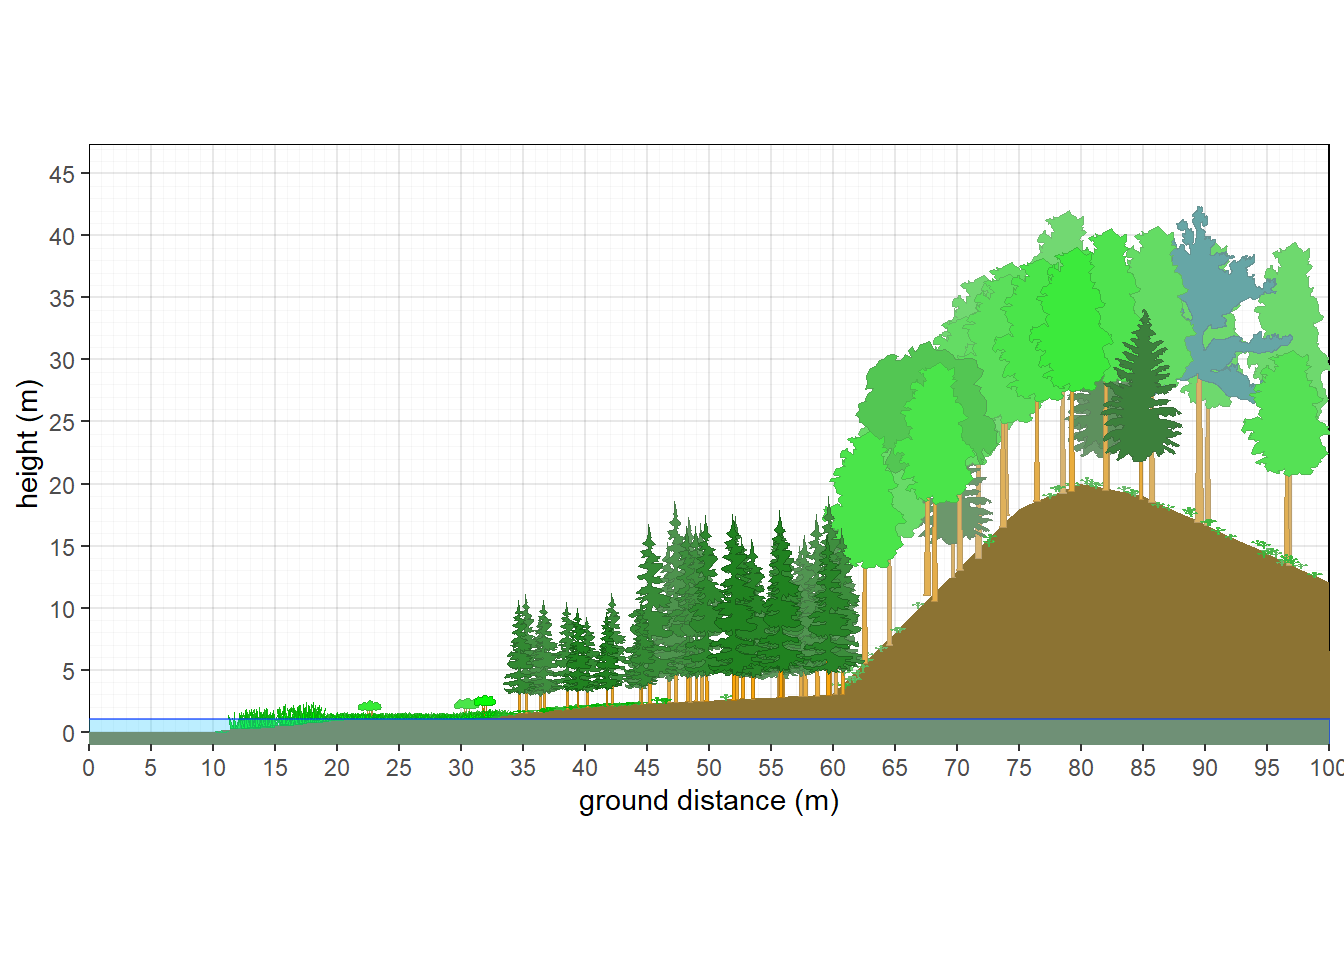
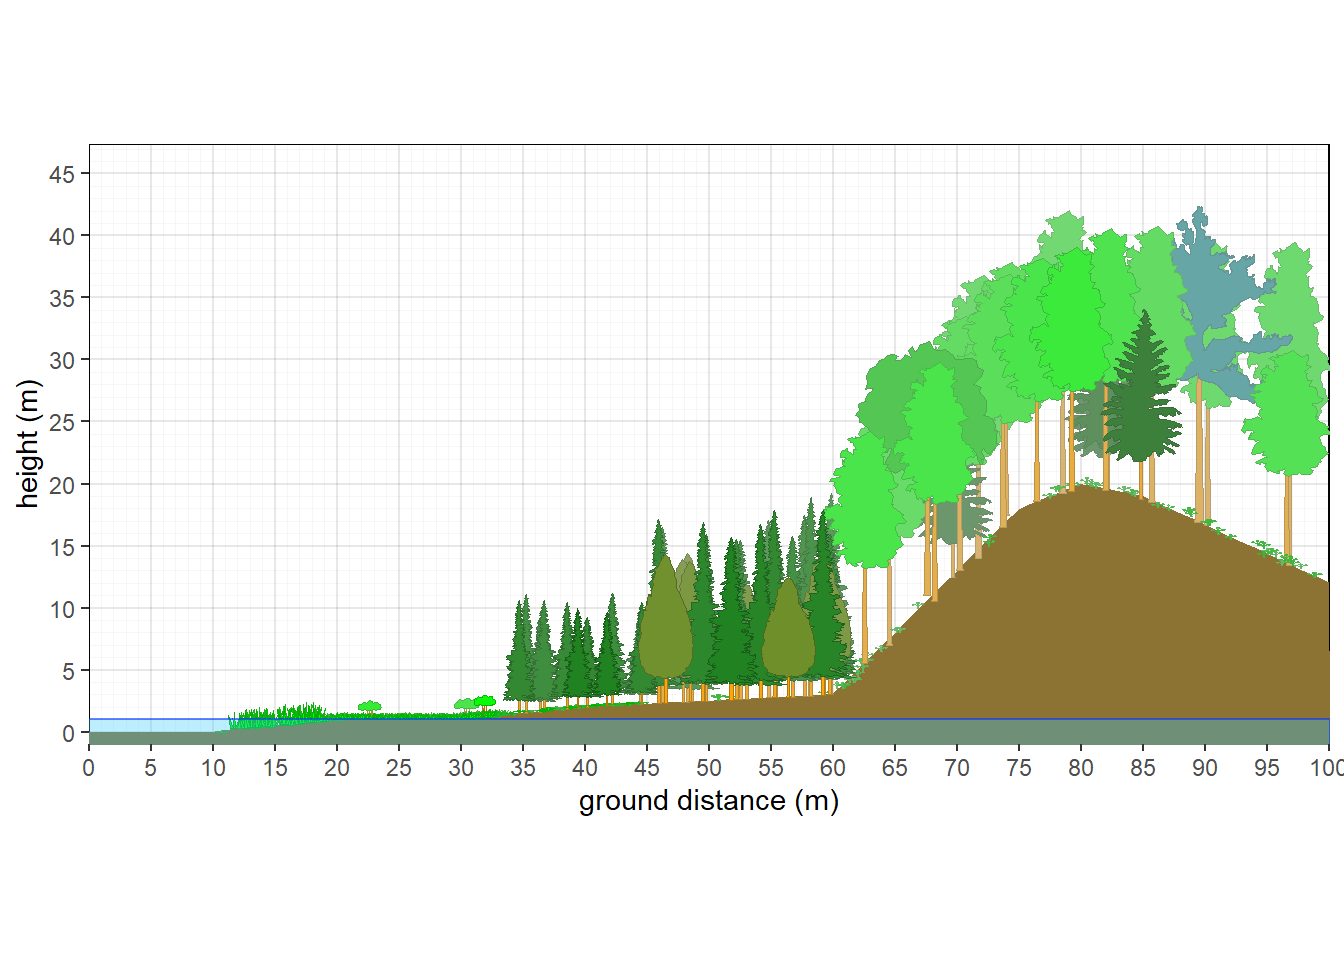
add whitecedar

Changed region(s): [[0.375, 0.5312, 0.6562, 0.75]]

diff --git a/docs/vegetation-plant-profile-diagrams.html b/docs/vegetation-plant-profile-diagrams.html
@@ -479,49 +479,51 @@ Figure 10.10: Aspen with fir subcanopy - fire
 <span id="cb12-10"><a href="vegetation-plant-profile-diagrams.html#cb12-10" tabindex="-1"></a>) <span class="sc">|&gt;</span> <span class="fu">pre.fill.veg</span>()</span>
 <span id="cb12-11"><a href="vegetation-plant-profile-diagrams.html#cb12-11" tabindex="-1"></a>               </span>
 <span id="cb12-12"><a href="vegetation-plant-profile-diagrams.html#cb12-12" tabindex="-1"></a>boreal<span class="ot">&lt;-</span><span class="fu">data.frame</span>(</span>
-<span id="cb12-13"><a href="vegetation-plant-profile-diagrams.html#cb12-13" tabindex="-1"></a>  <span class="at">habit =</span><span class="fu">c</span> (<span class="st">&#39;T.NE&#39;</span>,<span class="st">&#39;H.F&#39;</span>),</span>
-<span id="cb12-14"><a href="vegetation-plant-profile-diagrams.html#cb12-14" tabindex="-1"></a>  <span class="at">crown.max =</span> <span class="fu">c</span>(<span class="dv">15</span>,<span class="fl">0.5</span>),</span>
-<span id="cb12-15"><a href="vegetation-plant-profile-diagrams.html#cb12-15" tabindex="-1"></a>  <span class="at">crown.min =</span> <span class="fu">c</span>(<span class="dv">2</span>,<span class="cn">NA</span>),</span>
-<span id="cb12-16"><a href="vegetation-plant-profile-diagrams.html#cb12-16" tabindex="-1"></a>  <span class="at">cw =</span> <span class="fu">c</span>(<span class="dv">4</span>,<span class="cn">NA</span>),</span>
-<span id="cb12-17"><a href="vegetation-plant-profile-diagrams.html#cb12-17" tabindex="-1"></a>  <span class="at">crshape=</span><span class="fu">c</span>(<span class="st">&#39;fir&#39;</span>,<span class="cn">NA</span>),</span>
-<span id="cb12-18"><a href="vegetation-plant-profile-diagrams.html#cb12-18" tabindex="-1"></a>  <span class="at">cover =</span> <span class="fu">c</span>(<span class="dv">75</span>,<span class="dv">1</span>)</span>
-<span id="cb12-19"><a href="vegetation-plant-profile-diagrams.html#cb12-19" tabindex="-1"></a>) <span class="sc">|&gt;</span> <span class="fu">pre.fill.veg</span>()</span>
-<span id="cb12-20"><a href="vegetation-plant-profile-diagrams.html#cb12-20" tabindex="-1"></a></span>
-<span id="cb12-21"><a href="vegetation-plant-profile-diagrams.html#cb12-21" tabindex="-1"></a>tiaga<span class="ot">&lt;-</span><span class="fu">data.frame</span>(</span>
-<span id="cb12-22"><a href="vegetation-plant-profile-diagrams.html#cb12-22" tabindex="-1"></a>  <span class="at">habit =</span><span class="fu">c</span> (<span class="st">&#39;T.NE&#39;</span>,<span class="st">&#39;H.F&#39;</span>),</span>
-<span id="cb12-23"><a href="vegetation-plant-profile-diagrams.html#cb12-23" tabindex="-1"></a>  <span class="at">crown.max =</span> <span class="fu">c</span>(<span class="dv">9</span>,<span class="fl">0.2</span>),</span>
-<span id="cb12-24"><a href="vegetation-plant-profile-diagrams.html#cb12-24" tabindex="-1"></a>  <span class="at">crown.min =</span> <span class="fu">c</span>(<span class="fl">1.5</span>,<span class="cn">NA</span>),</span>
-<span id="cb12-25"><a href="vegetation-plant-profile-diagrams.html#cb12-25" tabindex="-1"></a>  <span class="at">cw =</span> <span class="fu">c</span>(<span class="fl">2.5</span>,<span class="cn">NA</span>),</span>
-<span id="cb12-26"><a href="vegetation-plant-profile-diagrams.html#cb12-26" tabindex="-1"></a>  <span class="at">crshape=</span><span class="fu">c</span>(<span class="st">&#39;fir&#39;</span>,<span class="cn">NA</span>),</span>
-<span id="cb12-27"><a href="vegetation-plant-profile-diagrams.html#cb12-27" tabindex="-1"></a>  <span class="at">cover =</span> <span class="fu">c</span>(<span class="dv">20</span>,<span class="dv">15</span>)</span>
-<span id="cb12-28"><a href="vegetation-plant-profile-diagrams.html#cb12-28" tabindex="-1"></a>) <span class="sc">|&gt;</span> <span class="fu">pre.fill.veg</span>()</span>
-<span id="cb12-29"><a href="vegetation-plant-profile-diagrams.html#cb12-29" tabindex="-1"></a></span>
-<span id="cb12-30"><a href="vegetation-plant-profile-diagrams.html#cb12-30" tabindex="-1"></a>meadow<span class="ot">&lt;-</span><span class="fu">data.frame</span>(</span>
-<span id="cb12-31"><a href="vegetation-plant-profile-diagrams.html#cb12-31" tabindex="-1"></a>  <span class="at">habit =</span><span class="fu">c</span> (<span class="st">&#39;H.G&#39;</span>,<span class="st">&#39;S.BD&#39;</span>),</span>
-<span id="cb12-32"><a href="vegetation-plant-profile-diagrams.html#cb12-32" tabindex="-1"></a>  <span class="at">crown.max =</span> <span class="fu">c</span>(<span class="fl">0.5</span>,<span class="dv">2</span>),</span>
-<span id="cb12-33"><a href="vegetation-plant-profile-diagrams.html#cb12-33" tabindex="-1"></a>  <span class="at">cover =</span> <span class="fu">c</span>(<span class="dv">95</span>,<span class="dv">3</span>)</span>
-<span id="cb12-34"><a href="vegetation-plant-profile-diagrams.html#cb12-34" tabindex="-1"></a>) <span class="sc">|&gt;</span> <span class="fu">pre.fill.veg</span>()</span>
-<span id="cb12-35"><a href="vegetation-plant-profile-diagrams.html#cb12-35" tabindex="-1"></a></span>
-<span id="cb12-36"><a href="vegetation-plant-profile-diagrams.html#cb12-36" tabindex="-1"></a>marsh<span class="ot">&lt;-</span><span class="fu">data.frame</span>(</span>
-<span id="cb12-37"><a href="vegetation-plant-profile-diagrams.html#cb12-37" tabindex="-1"></a>  <span class="at">habit =</span><span class="fu">c</span> (<span class="st">&#39;H.G&#39;</span>),</span>
-<span id="cb12-38"><a href="vegetation-plant-profile-diagrams.html#cb12-38" tabindex="-1"></a>  <span class="at">crown.max =</span> <span class="fu">c</span>(<span class="fl">1.5</span>),</span>
-<span id="cb12-39"><a href="vegetation-plant-profile-diagrams.html#cb12-39" tabindex="-1"></a>  <span class="at">cover =</span> <span class="fu">c</span>(<span class="dv">90</span>)</span>
-<span id="cb12-40"><a href="vegetation-plant-profile-diagrams.html#cb12-40" tabindex="-1"></a>) <span class="sc">|&gt;</span> <span class="fu">pre.fill.veg</span>()</span>
-<span id="cb12-41"><a href="vegetation-plant-profile-diagrams.html#cb12-41" tabindex="-1"></a></span>
-<span id="cb12-42"><a href="vegetation-plant-profile-diagrams.html#cb12-42" tabindex="-1"></a>bare<span class="ot">&lt;-</span><span class="fu">data.frame</span>(</span>
-<span id="cb12-43"><a href="vegetation-plant-profile-diagrams.html#cb12-43" tabindex="-1"></a>  <span class="at">habit =</span><span class="fu">c</span> (<span class="st">&#39;H.G&#39;</span>),</span>
-<span id="cb12-44"><a href="vegetation-plant-profile-diagrams.html#cb12-44" tabindex="-1"></a>  <span class="at">crown.max =</span> <span class="fu">c</span>(<span class="fl">0.1</span>),</span>
-<span id="cb12-45"><a href="vegetation-plant-profile-diagrams.html#cb12-45" tabindex="-1"></a>  <span class="at">cover =</span> <span class="fu">c</span>(<span class="fl">0.2</span>)</span>
-<span id="cb12-46"><a href="vegetation-plant-profile-diagrams.html#cb12-46" tabindex="-1"></a>) <span class="sc">|&gt;</span> <span class="fu">pre.fill.veg</span>()</span>
-<span id="cb12-47"><a href="vegetation-plant-profile-diagrams.html#cb12-47" tabindex="-1"></a></span>
-<span id="cb12-48"><a href="vegetation-plant-profile-diagrams.html#cb12-48" tabindex="-1"></a>plants<span class="ot">&lt;-</span><span class="fu">splitveg</span>(bare,marsh,meadow,tiaga,boreal,hardwood,<span class="at">plength =</span> <span class="dv">100</span>, <span class="at">pwidth=</span><span class="dv">20</span>,<span class="at">px=</span><span class="fu">c</span>(<span class="dv">12</span>,<span class="dv">18</span>,<span class="dv">33</span>,<span class="dv">45</span>,<span class="dv">60</span>))</span>
+<span id="cb12-13"><a href="vegetation-plant-profile-diagrams.html#cb12-13" tabindex="-1"></a>  <span class="at">habit =</span><span class="fu">c</span> (<span class="st">&#39;T.NE&#39;</span>,<span class="st">&#39;T.NE&#39;</span>,<span class="st">&#39;H.F&#39;</span>),</span>
+<span id="cb12-14"><a href="vegetation-plant-profile-diagrams.html#cb12-14" tabindex="-1"></a>  <span class="at">crown.max =</span> <span class="fu">c</span>(<span class="dv">15</span>,<span class="dv">12</span>,<span class="fl">0.5</span>),</span>
+<span id="cb12-15"><a href="vegetation-plant-profile-diagrams.html#cb12-15" tabindex="-1"></a>  <span class="at">crown.min =</span> <span class="fu">c</span>(<span class="fl">1.5</span>,<span class="dv">2</span>,<span class="cn">NA</span>),</span>
+<span id="cb12-16"><a href="vegetation-plant-profile-diagrams.html#cb12-16" tabindex="-1"></a>  <span class="at">cw =</span> <span class="fu">c</span>(<span class="dv">4</span>,<span class="dv">4</span>,<span class="cn">NA</span>),</span>
+<span id="cb12-17"><a href="vegetation-plant-profile-diagrams.html#cb12-17" tabindex="-1"></a>  <span class="at">crshape=</span><span class="fu">c</span>(<span class="st">&#39;subalpine&#39;</span>,<span class="st">&#39;wcedar&#39;</span>,<span class="cn">NA</span>),</span>
+<span id="cb12-18"><a href="vegetation-plant-profile-diagrams.html#cb12-18" tabindex="-1"></a>  <span class="at">crfill =</span> <span class="fu">c</span>(<span class="cn">NA</span>,<span class="st">&#39;olivedrab&#39;</span>,<span class="cn">NA</span>),</span>
+<span id="cb12-19"><a href="vegetation-plant-profile-diagrams.html#cb12-19" tabindex="-1"></a>  <span class="at">cover =</span> <span class="fu">c</span>(<span class="dv">65</span>,<span class="dv">25</span>,<span class="dv">1</span>)</span>
+<span id="cb12-20"><a href="vegetation-plant-profile-diagrams.html#cb12-20" tabindex="-1"></a>) <span class="sc">|&gt;</span> <span class="fu">pre.fill.veg</span>()</span>
+<span id="cb12-21"><a href="vegetation-plant-profile-diagrams.html#cb12-21" tabindex="-1"></a></span>
+<span id="cb12-22"><a href="vegetation-plant-profile-diagrams.html#cb12-22" tabindex="-1"></a>tiaga<span class="ot">&lt;-</span><span class="fu">data.frame</span>(</span>
+<span id="cb12-23"><a href="vegetation-plant-profile-diagrams.html#cb12-23" tabindex="-1"></a>  <span class="at">habit =</span><span class="fu">c</span> (<span class="st">&#39;T.NE&#39;</span>,<span class="st">&#39;H.F&#39;</span>),</span>
+<span id="cb12-24"><a href="vegetation-plant-profile-diagrams.html#cb12-24" tabindex="-1"></a>  <span class="at">crown.max =</span> <span class="fu">c</span>(<span class="dv">9</span>,<span class="fl">0.2</span>),</span>
+<span id="cb12-25"><a href="vegetation-plant-profile-diagrams.html#cb12-25" tabindex="-1"></a>  <span class="at">crown.min =</span> <span class="fu">c</span>(<span class="dv">1</span>,<span class="cn">NA</span>),</span>
+<span id="cb12-26"><a href="vegetation-plant-profile-diagrams.html#cb12-26" tabindex="-1"></a>  <span class="at">cw =</span> <span class="fu">c</span>(<span class="fl">2.5</span>,<span class="cn">NA</span>),</span>
+<span id="cb12-27"><a href="vegetation-plant-profile-diagrams.html#cb12-27" tabindex="-1"></a>  <span class="at">crshape=</span><span class="fu">c</span>(<span class="st">&#39;subalpine&#39;</span>,<span class="cn">NA</span>),</span>
+<span id="cb12-28"><a href="vegetation-plant-profile-diagrams.html#cb12-28" tabindex="-1"></a>  <span class="at">cover =</span> <span class="fu">c</span>(<span class="dv">20</span>,<span class="dv">15</span>)</span>
+<span id="cb12-29"><a href="vegetation-plant-profile-diagrams.html#cb12-29" tabindex="-1"></a>) <span class="sc">|&gt;</span> <span class="fu">pre.fill.veg</span>()</span>
+<span id="cb12-30"><a href="vegetation-plant-profile-diagrams.html#cb12-30" tabindex="-1"></a></span>
+<span id="cb12-31"><a href="vegetation-plant-profile-diagrams.html#cb12-31" tabindex="-1"></a></span>
+<span id="cb12-32"><a href="vegetation-plant-profile-diagrams.html#cb12-32" tabindex="-1"></a>meadow<span class="ot">&lt;-</span><span class="fu">data.frame</span>(</span>
+<span id="cb12-33"><a href="vegetation-plant-profile-diagrams.html#cb12-33" tabindex="-1"></a>  <span class="at">habit =</span><span class="fu">c</span> (<span class="st">&#39;H.G&#39;</span>,<span class="st">&#39;S.BD&#39;</span>),</span>
+<span id="cb12-34"><a href="vegetation-plant-profile-diagrams.html#cb12-34" tabindex="-1"></a>  <span class="at">crown.max =</span> <span class="fu">c</span>(<span class="fl">0.5</span>,<span class="dv">2</span>),</span>
+<span id="cb12-35"><a href="vegetation-plant-profile-diagrams.html#cb12-35" tabindex="-1"></a>  <span class="at">cover =</span> <span class="fu">c</span>(<span class="dv">95</span>,<span class="dv">3</span>)</span>
+<span id="cb12-36"><a href="vegetation-plant-profile-diagrams.html#cb12-36" tabindex="-1"></a>) <span class="sc">|&gt;</span> <span class="fu">pre.fill.veg</span>()</span>
+<span id="cb12-37"><a href="vegetation-plant-profile-diagrams.html#cb12-37" tabindex="-1"></a></span>
+<span id="cb12-38"><a href="vegetation-plant-profile-diagrams.html#cb12-38" tabindex="-1"></a>marsh<span class="ot">&lt;-</span><span class="fu">data.frame</span>(</span>
+<span id="cb12-39"><a href="vegetation-plant-profile-diagrams.html#cb12-39" tabindex="-1"></a>  <span class="at">habit =</span><span class="fu">c</span> (<span class="st">&#39;H.G&#39;</span>),</span>
+<span id="cb12-40"><a href="vegetation-plant-profile-diagrams.html#cb12-40" tabindex="-1"></a>  <span class="at">crown.max =</span> <span class="fu">c</span>(<span class="fl">1.5</span>),</span>
+<span id="cb12-41"><a href="vegetation-plant-profile-diagrams.html#cb12-41" tabindex="-1"></a>  <span class="at">cover =</span> <span class="fu">c</span>(<span class="dv">90</span>)</span>
+<span id="cb12-42"><a href="vegetation-plant-profile-diagrams.html#cb12-42" tabindex="-1"></a>) <span class="sc">|&gt;</span> <span class="fu">pre.fill.veg</span>()</span>
+<span id="cb12-43"><a href="vegetation-plant-profile-diagrams.html#cb12-43" tabindex="-1"></a></span>
+<span id="cb12-44"><a href="vegetation-plant-profile-diagrams.html#cb12-44" tabindex="-1"></a>bare<span class="ot">&lt;-</span><span class="fu">data.frame</span>(</span>
+<span id="cb12-45"><a href="vegetation-plant-profile-diagrams.html#cb12-45" tabindex="-1"></a>  <span class="at">habit =</span><span class="fu">c</span> (<span class="st">&#39;H.G&#39;</span>),</span>
+<span id="cb12-46"><a href="vegetation-plant-profile-diagrams.html#cb12-46" tabindex="-1"></a>  <span class="at">crown.max =</span> <span class="fu">c</span>(<span class="fl">0.1</span>),</span>
+<span id="cb12-47"><a href="vegetation-plant-profile-diagrams.html#cb12-47" tabindex="-1"></a>  <span class="at">cover =</span> <span class="fu">c</span>(<span class="fl">0.2</span>)</span>
+<span id="cb12-48"><a href="vegetation-plant-profile-diagrams.html#cb12-48" tabindex="-1"></a>) <span class="sc">|&gt;</span> <span class="fu">pre.fill.veg</span>()</span>
 <span id="cb12-49"><a href="vegetation-plant-profile-diagrams.html#cb12-49" tabindex="-1"></a></span>
-<span id="cb12-50"><a href="vegetation-plant-profile-diagrams.html#cb12-50" tabindex="-1"></a><span class="fu">veg_profile_plot</span>(plants, <span class="at">unit=</span><span class="st">&#39;m&#39;</span>,  <span class="at">skycolor =</span> <span class="st">&#39;white&#39;</span>, </span>
-<span id="cb12-51"><a href="vegetation-plant-profile-diagrams.html#cb12-51" tabindex="-1"></a>                 <span class="at">xlim =</span><span class="fu">c</span>(<span class="dv">0</span>,<span class="dv">100</span>),</span>
-<span id="cb12-52"><a href="vegetation-plant-profile-diagrams.html#cb12-52" tabindex="-1"></a>                 <span class="at">fadecolor =</span> <span class="st">&#39;gray&#39;</span>, <span class="at">gridalpha =</span> <span class="fl">0.1</span>, </span>
-<span id="cb12-53"><a href="vegetation-plant-profile-diagrams.html#cb12-53" tabindex="-1"></a>                 <span class="at">groundcolor =</span> <span class="fu">rgb</span>(<span class="fl">0.55</span>,<span class="fl">0.45</span>,<span class="fl">0.2</span>), </span>
-<span id="cb12-54"><a href="vegetation-plant-profile-diagrams.html#cb12-54" tabindex="-1"></a>                 <span class="at">xslope=</span><span class="dv">0</span>, <span class="at">xamplitude =</span> <span class="dv">0</span>, <span class="at">xperiod =</span> <span class="dv">120</span>, <span class="at">xphase =</span> <span class="fl">0.5</span>,<span class="at">wt=</span><span class="dv">1</span>,</span>
-<span id="cb12-55"><a href="vegetation-plant-profile-diagrams.html#cb12-55" tabindex="-1"></a>                 <span class="at">px=</span><span class="fu">c</span>(<span class="dv">10</span>,<span class="dv">20</span>,<span class="dv">30</span>,<span class="dv">40</span>,<span class="dv">60</span>,<span class="dv">75</span>,<span class="dv">80</span>,<span class="dv">85</span>,<span class="dv">100</span>),<span class="at">py=</span><span class="fu">c</span>(<span class="dv">0</span>,<span class="dv">1</span>,<span class="dv">1</span>,<span class="dv">2</span>,<span class="dv">3</span>,<span class="dv">18</span>,<span class="dv">20</span>,<span class="dv">19</span>,<span class="dv">12</span>))</span></code></pre></div>
+<span id="cb12-50"><a href="vegetation-plant-profile-diagrams.html#cb12-50" tabindex="-1"></a>plants<span class="ot">&lt;-</span><span class="fu">splitveg</span>(bare,marsh,meadow,tiaga,boreal,hardwood,<span class="at">plength =</span> <span class="dv">100</span>, <span class="at">pwidth=</span><span class="dv">20</span>,<span class="at">px=</span><span class="fu">c</span>(<span class="dv">12</span>,<span class="dv">18</span>,<span class="dv">33</span>,<span class="dv">45</span>,<span class="dv">60</span>))</span>
+<span id="cb12-51"><a href="vegetation-plant-profile-diagrams.html#cb12-51" tabindex="-1"></a></span>
+<span id="cb12-52"><a href="vegetation-plant-profile-diagrams.html#cb12-52" tabindex="-1"></a><span class="fu">veg_profile_plot</span>(plants, <span class="at">unit=</span><span class="st">&#39;m&#39;</span>,  <span class="at">skycolor =</span> <span class="st">&#39;white&#39;</span>, </span>
+<span id="cb12-53"><a href="vegetation-plant-profile-diagrams.html#cb12-53" tabindex="-1"></a>                 <span class="at">xlim =</span><span class="fu">c</span>(<span class="dv">0</span>,<span class="dv">100</span>),</span>
+<span id="cb12-54"><a href="vegetation-plant-profile-diagrams.html#cb12-54" tabindex="-1"></a>                 <span class="at">fadecolor =</span> <span class="st">&#39;gray&#39;</span>, <span class="at">gridalpha =</span> <span class="fl">0.1</span>, </span>
+<span id="cb12-55"><a href="vegetation-plant-profile-diagrams.html#cb12-55" tabindex="-1"></a>                 <span class="at">groundcolor =</span> <span class="fu">rgb</span>(<span class="fl">0.55</span>,<span class="fl">0.45</span>,<span class="fl">0.2</span>), </span>
+<span id="cb12-56"><a href="vegetation-plant-profile-diagrams.html#cb12-56" tabindex="-1"></a>                 <span class="at">xslope=</span><span class="dv">0</span>, <span class="at">xamplitude =</span> <span class="dv">0</span>, <span class="at">xperiod =</span> <span class="dv">120</span>, <span class="at">xphase =</span> <span class="fl">0.5</span>,<span class="at">wt=</span><span class="dv">1</span>,</span>
+<span id="cb12-57"><a href="vegetation-plant-profile-diagrams.html#cb12-57" tabindex="-1"></a>                 <span class="at">px=</span><span class="fu">c</span>(<span class="dv">10</span>,<span class="dv">20</span>,<span class="dv">30</span>,<span class="dv">40</span>,<span class="dv">60</span>,<span class="dv">75</span>,<span class="dv">80</span>,<span class="dv">85</span>,<span class="dv">100</span>),<span class="at">py=</span><span class="fu">c</span>(<span class="dv">0</span>,<span class="dv">1</span>,<span class="dv">1</span>,<span class="dv">2</span>,<span class="dv">3</span>,<span class="dv">18</span>,<span class="dv">20</span>,<span class="dv">19</span>,<span class="dv">12</span>))</span></code></pre></div>
 <div class="figure"><span style="display:block;" id="fig:unnamed-chunk-12"></span>
 <img src="vegbook1_files/figure-html/unnamed-chunk-12-1.png" alt="Vegetation Gradient" width="672" />
 <p class="caption">
